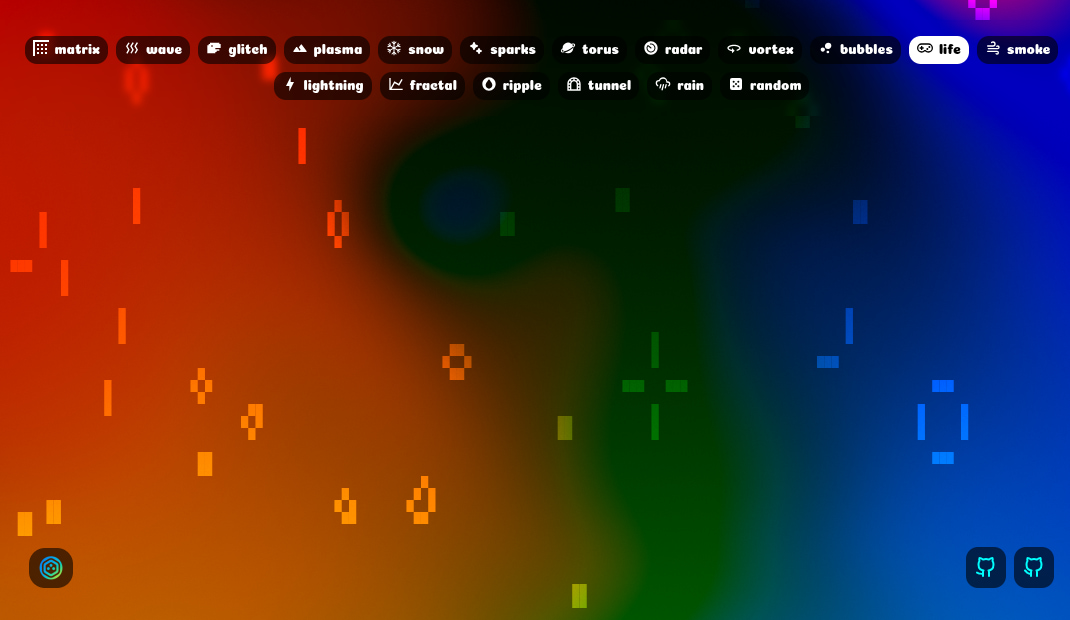
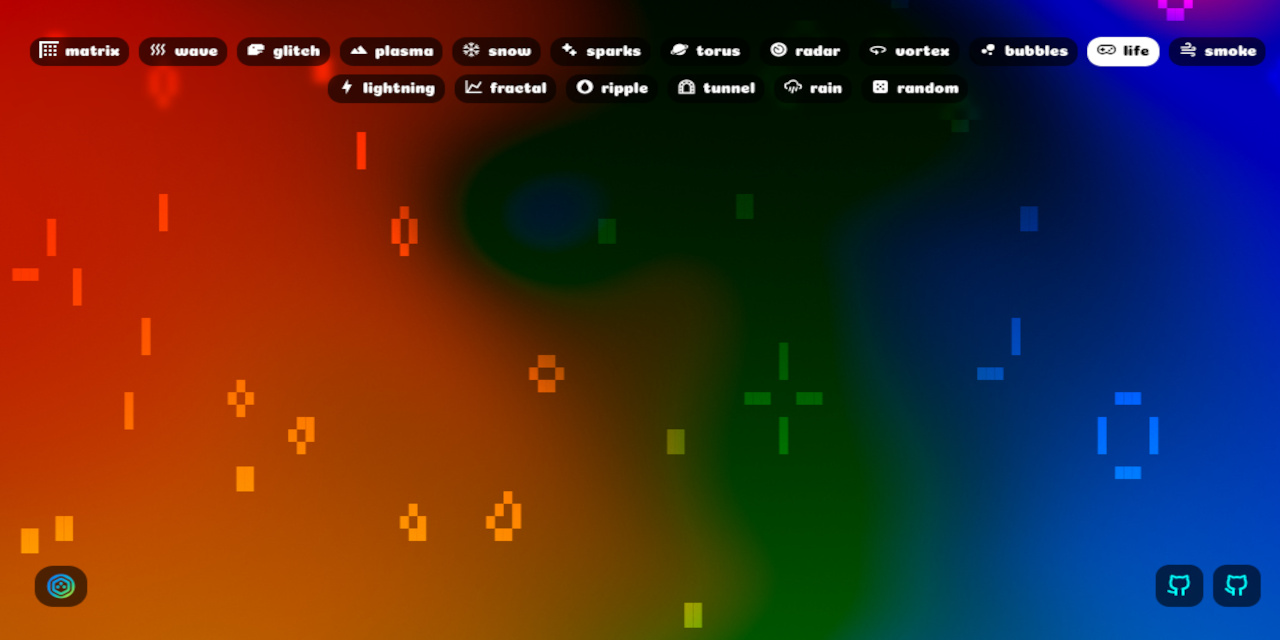
rev6

diff --git a/src/style.css b/src/style.css
@@ -80,11 +80,11 @@ pre {
   border-radius: 0;
   display: block;
   position: fixed;
-  top: 0;
+  bottom: 0;
   left: 0;
   font-weight: bold;
   width: 100svw;
-  height: calc(100svh + 100px);
+  height: 100svh;
   mix-blend-mode: overlay;
 }
 .frame {
